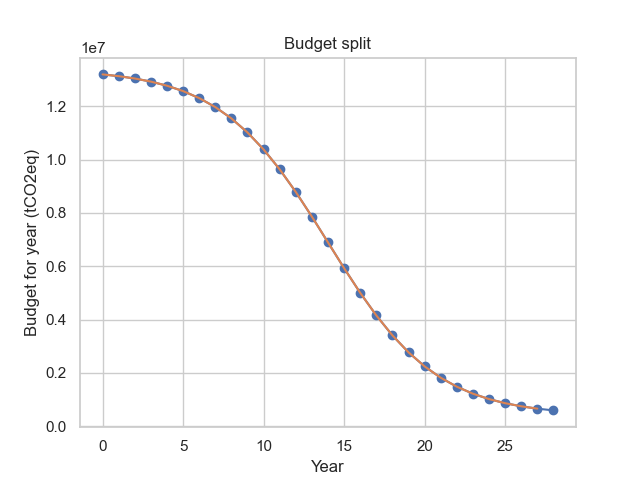
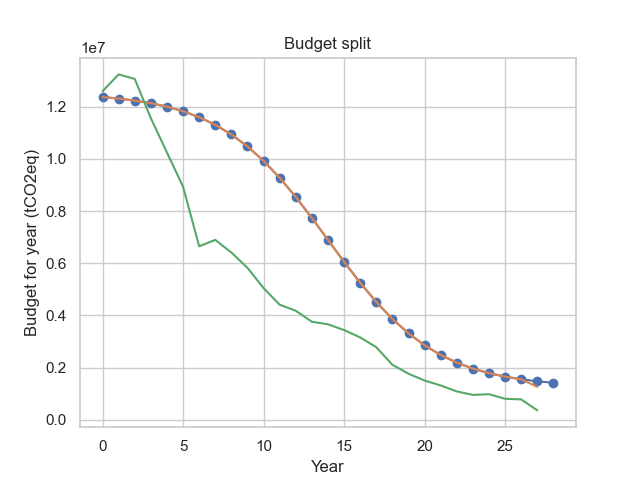
improved allocation and code for multiple simulations

diff --git a/Alloc.py b/Alloc.py
@@ -25,7 +25,7 @@ import Config
 #%%
 class Alloc():
         
-    def __init__(self, rf, budget, short_sales = False, rf_params = False):
+    def __init__(self, rf, budget, short_sales = False, rf_params = False, sheet_name = 0):
         """
         Initializes a Portfolio instance.
 
@@ -52,6 +52,7 @@ class Alloc():
         self.current_time = 0 
         
         self.emissions_matrix()
+        self.emissions_matrix(sim = True, sheet_name = sheet_name)
         K, n, T_em = self.scenario_emissions.shape
         self.time = T_em
         
@@ -64,27 +65,51 @@ class Alloc():
     def set_budget(self, budget):
         self.budget = budget
         
-    def emissions_matrix(self):
+    def emissions_matrix(self, sim = False, path = "Data/Simul/Test3/Test3_1.xlsx", sheet_name = 0):
+        '''Computes the matrix of sector emissions over time for each scenario'''
+        # dim Scenar x Company x Time
+        
         #emissions = Config.EM_LAST.copy()
         #emissions.columns = [Config.FUTURE_START_YEAR-1]
         
-        emissions = Config.LAST_EM.copy()        
-        mus = pd.read_excel("Data/scenarios.xlsx", index_col = "Scenario")
-        sces = []
-        for scenar in mus.index:
-            sce = emissions.copy()
-            while sce.columns[-1] < 2050:       
-                max_year = sce.columns[-1] +1
-                sce[max_year] = mus.loc[scenar, max_year] * sce[max_year-1] / 100 + sce[max_year-1]
-                sce = sce.copy()
-            sces.append((scenar, sce))
+        emissions = Config.LAST_EM.copy()
+        emissions = emissions.drop("Real Estate (n=29)")
+        if sim:
+            # Simulated rates
+            mus = pd.read_excel(path, index_col = 0, sheet_name = sheet_name)
+            em = emissions.copy()
+            ind = em.index.str.replace(r"\s*\(n=\d+\)", "", regex=True)
+            em.index = ind
+            mus.reindex(ind)
+            while em.columns[-1] < 2050:       
+                max_year = em.columns[-1] +1
+                em[max_year] = mus[max_year] * em[max_year-1] / 100 + em[max_year-1]
+                em = em.copy()
+
+        else:
+            mus = pd.read_excel("Data/scenarios.xlsx", index_col = "Scenario")
+            sces = []
+            for scenar in mus.index:
+                sce = emissions.copy()
+                while sce.columns[-1] < 2050:       
+                    max_year = sce.columns[-1] +1
+                    sce[max_year] = mus.loc[scenar, max_year] * sce[max_year-1] / 100 + sce[max_year-1]
+                    sce = sce.copy()
+                sces.append((scenar, sce))
+                
+            scenario_emissions = np.stack([df.to_numpy() for (_,df) in sces], axis=0)
+
+        if sim:
+            self.sim_emissions = em
             
-        scenario_emissions = np.stack([df.to_numpy() for (_,df) in sces], axis=0)
         #K x n x T [scenar x company x time]
         # Time 2022 to 2050
-        self.scenario_emissions = scenario_emissions
+        else:
+            self.scenario_emissions = scenario_emissions
+        
         
     def return_stats(self):
+        '''Computes the historical returns mean and covariance'''
         returns = pd.read_excel("Data/Stoxx_returns.xlsx", index_col = 0)
         returns['GICS Sector Name'] = returns.groupby('Instrument')['GICS Sector Name'].ffill()
         returns = returns[['Date', 'GICS Sector Name', 'Instrument', 'Total Return']]
@@ -95,6 +120,7 @@ class Alloc():
         returns = returns.dropna(subset=['Return', 'Sector'])
         
         sector_returns = returns.groupby(['Date', 'Sector'])['Return'].mean().unstack()
+        sector_returns.drop(columns = ["Real Estate"], inplace = True)
         
         self.mu = sector_returns.mean()
 
@@ -108,8 +134,13 @@ class Alloc():
       
     def get_probas_simulation(self, path ="Data/Simul/Test3/Calib_1.xlsx", sheet_name = 0):
         self.all_probas = pd.read_excel(path, index_col = 0, sheet_name = sheet_name)
-        
+       
+    def get_rates(self, path = "Data/Simul/Test3/Test3_1.xlsx", sheet_name= 0):
+        self.rates = pd.read_excel(path, index_col = 0, sheet_name = sheet_name)
+       
     def cut_budget(self, start, end, linear=False, alpha = 1.5, x0 = 14):
+        '''Splits the budget into parts in a linear or sigmoidal way'''
+        
         def reverse_sigmoid(alpha, T):
             t = np.arange(1, T + 1)
             return 1 / (1 + np.exp(alpha * (t - T / 2)))
@@ -209,6 +240,8 @@ class Alloc():
         means = self.probas.T.dot(self.scenario_emissions[:,:,self.current_time])
         return weights.T.dot(means)
     
+    def true_carbon(self, weights):
+        return weights.T.dot(self.sim_emissions[self.current_time + Config.FUTURE_START_YEAR])
     
 #%% 
 
@@ -293,6 +326,7 @@ class Alloc():
                 ret = self.get_return(weights)
                 risk = self.get_risk(weights)
                 carbon = self.get_carbon(weights)
+                realized = self.true_carbon(weights)
                 all_weights.append({
                     'year': t + Config.FUTURE_START_YEAR,
                     'weights': weights,
@@ -300,10 +334,31 @@ class Alloc():
                     'return': ret,
                     'risk': risk,
                     'carbon': carbon,
+                    'realized': realized,
                     'allocated_budget': self.parts[t]
                 })
     
         return all_weights if log else weights
+    
+    def run_multiple_allocations(self, sim_files, proba_files):
+
+        assert len(sim_files) == len(proba_files), "Incompatible file numbers"
+    
+        total_budgets = []
+    
+        for (sim_path, sim_sheet), (proba_path, proba_sheet) in zip(sim_files, proba_files):
+            alloc.emissions_matrix(sim=True, path=sim_path, sheet_name=sim_sheet)
+    
+            alloc.get_probas_simulation(path=proba_path, sheet_name=proba_sheet)
+    
+            run = alloc.allocate_over_time(log=True)
+            df_run = pd.DataFrame(run)
+    
+            total_realized = df_run["realized"].sum()
+            total_budgets.append(total_realized)
+    
+        return df_run, total_budgets
+
 
     
 #%%
@@ -312,73 +367,103 @@ class Alloc():
 
 # NZ : 32 times as many emissions in the start as in the end
 
-budget = 2.75e+08
-alloc = Alloc(rf = 0, budget=budget)
-alloc.cut_budget(start = 5e+07, end = 1.5e+06, linear=False, alpha = 0.9)
-
 scenar_used = 6
+budget = 2e+08
+alloc = Alloc(rf = 0, budget=budget, sheet_name = scenar_used)
+alloc.cut_budget(start = 5e+07, end = 5e+06, linear=False, alpha = 0.3)
+
 abb = Config.INDEX2ABB[scenar_used]
 
-alloc.get_probas_simulation("Data/Simul/Test3/Calib_1.xlsx", sheet_name = scenar_used)
-history = alloc.allocate_over_time()
+# Simulations with the lowest KL for each scenario
+kl_scenar_best_sims = {0:3, 1:6, 2:10, 3:1, 4:4, 5:6, 6:9}
 
-carbs = [i["carbon"] for i in history]
-
-plt.plot(alloc.parts, marker='o')
-plt.plot(carbs)
-plt.title("Budget split")
-plt.ylabel("Budget for year (tCO2eq)")
-plt.xlabel("Year")
-plt.grid(True)
-plt.savefig(f"Figs/Alloc/{abb}/carbon_traj_{abb}_{int(budget/1e+06)}Mt.png")
-plt.show()
-
-#%%
-
-GICS = Config.GICS
+GICS = Config.GICS.copy()
+GICS.remove("Real Estate")
 palette = sns.color_palette("tab10", n_colors=len(GICS))
 color_mapping = dict(zip(GICS, palette))  # {sector_name: color}
 
-# Plot 1
-sector_emissions = pd.DataFrame(
-    alloc.scenario_emissions[scenar_used, :, :],
-    index=GICS,
-    columns=range(Config.FUTURE_START_YEAR - 1, 2051)
-)
-
-emissions_df = sector_emissions.T.reset_index().melt(id_vars="index", var_name="Sector", value_name="Emissions")
-emissions_df.rename(columns={"index": "Year"}, inplace=True)
-
-plt.figure(figsize=(12, 6))
-sns.lineplot(data=emissions_df, x="Year", y="Emissions", hue="Sector", palette=color_mapping)
-plt.title(f"Emissions by sector {Config.INDEX2SCENAR[scenar_used]}")
-plt.legend(bbox_to_anchor=(1.05, 1), loc="upper left")
-plt.grid(True)
-plt.tight_layout()
-plt.savefig(f"Figs/Alloc/{abb}/emissions_{abb}.png")
-plt.show()
-
-
-# Plot 2
-weights_df = pd.DataFrame({
-    "Year": [i["year"] for i in history],
-    "Weights": [i["weights"] for i in history]
-})
-
-weights_expanded = pd.DataFrame(weights_df['Weights'].tolist(), columns=GICS)
-weights_expanded['Year'] = weights_df['Year']
-
-weights_melted = weights_expanded.melt(id_vars='Year', var_name='Sector', value_name='Weight')
-
-plt.figure(figsize=(12, 6))
-sns.lineplot(data=weights_melted, x="Year", y="Weight", hue="Sector", palette=color_mapping)
-plt.title("Weight evolution by sector")
-plt.legend(bbox_to_anchor=(1.05, 1), loc="upper left")
-plt.grid(True)
-plt.tight_layout()
-plt.savefig(f"Figs/Alloc/{abb}/weights_{abb}_{int(budget/1e+06)}Mt.png")
-plt.show()
-
+#%%
+def test_plot():
+    alloc.get_probas_simulation(f"Data/Simul/Test3/Calib_{kl_scenar_best_sims[scenar_used]}.xlsx", sheet_name = scenar_used)
+    history = alloc.allocate_over_time()
     
+    carbs = [i["carbon"] for i in history]
+    real = [i["realized"] for i in history]
+    
+    plt.plot(alloc.parts, marker='o')
+    plt.plot(carbs, label = "Expected")
+    plt.plot(real, label = 'Realized')
+    plt.title("Budget split")
+    plt.ylabel("Budget for year (tCO2eq)")
+    plt.xlabel("Year")
+    plt.grid(True)
+    plt.savefig(f"Figs/Alloc/{abb}/carbon_traj_{abb}_{int(budget/1e+06)}Mt.png")
+    plt.show()
+
+
+
+
+
+    # Plot 1
+    sector_emissions = pd.DataFrame(
+        alloc.scenario_emissions[scenar_used, :, :],
+        index=GICS,
+        columns=range(Config.FUTURE_START_YEAR - 1, 2051)
+    )
+    
+    emissions_df = sector_emissions.T.reset_index().melt(id_vars="index", var_name="Sector", value_name="Emissions")
+    emissions_df.rename(columns={"index": "Year"}, inplace=True)
+    
+    plt.figure(figsize=(12, 6))
+    sns.lineplot(data=emissions_df, x="Year", y="Emissions", hue="Sector", palette=color_mapping)
+    plt.title(f"Emissions by sector {Config.INDEX2SCENAR[scenar_used]}")
+    plt.legend(bbox_to_anchor=(1.05, 1), loc="upper left")
+    plt.grid(True)
+    plt.tight_layout()
+    plt.savefig(f"Figs/Alloc/{abb}/emissions_{abb}.png")
+    plt.show()
+
+
+    # Plot 2
+    weights_df = pd.DataFrame({
+        "Year": [i["year"] for i in history],
+        "Weights": [i["weights"] for i in history]
+    })
+    
+    weights_expanded = pd.DataFrame(weights_df['Weights'].tolist(), columns=GICS)
+    weights_expanded['Year'] = weights_df['Year']
+    
+    weights_melted = weights_expanded.melt(id_vars='Year', var_name='Sector', value_name='Weight')
+    
+    plt.figure(figsize=(12, 6))
+    sns.lineplot(data=weights_melted, x="Year", y="Weight", hue="Sector", palette=color_mapping)
+    plt.title("Weight evolution by sector")
+    plt.legend(bbox_to_anchor=(1.05, 1), loc="upper left")
+    plt.grid(True)
+    plt.tight_layout()
+    plt.savefig(f"Figs/Alloc/{abb}/weights_{abb}_{int(budget/1e+06)}Mt.png")
+    plt.show()
+
+#%%
+
+sim_files= [(f"Data/Simul/Test3/Test3_{i}.xlsx", scenar_used) for i in range(1,11)]
+nocalib_files= [(f"Data/Simul/Test3/Nocalib_{i}.xlsx", scenar_used) for i in range(1,11)]
+
+run, totals = alloc.run_multiple_allocations(sim_files, nocalib_files)
+
+plt.figure(figsize=(12,6))
+sns.histplot(totals, bins=20, kde=True, color="skyblue")
+
+plt.axvline(budget, color="red", linestyle="--", linewidth=2, label=f"Max budget ({int(budget/1e+06)}Mt)")
+
+
+plt.xlabel("Realized budget")
+plt.ylabel("Frequency")
+plt.title("Distribution of realized budgets across runs")
+plt.legend()
+
+plt.tight_layout()
+plt.show()
+
     
     

diff --git a/Test.py b/Test.py
@@ -674,6 +674,6 @@ def verif_probas_plot(path = "Data/history_calib.xlsx", nopath = "Data/history_n
 
 #kl_df = final_calibration_effect()
 
-verif_probas_plot(path = "Data/Simul/Test3/Calib_1.xlsx", nopath = "Data/Simul/Test3/Nocalib_1.xlsx", scenar = "Delayed transition", title = "DelT (Calibration)", titleno = "DelT (No calibration)")
+#verif_probas_plot(path = "Data/Simul/Test3/Calib_1.xlsx", nopath = "Data/Simul/Test3/Nocalib_1.xlsx", scenar = "Delayed transition", title = "DelT (Calibration)", titleno = "DelT (No calibration)")
 
 
